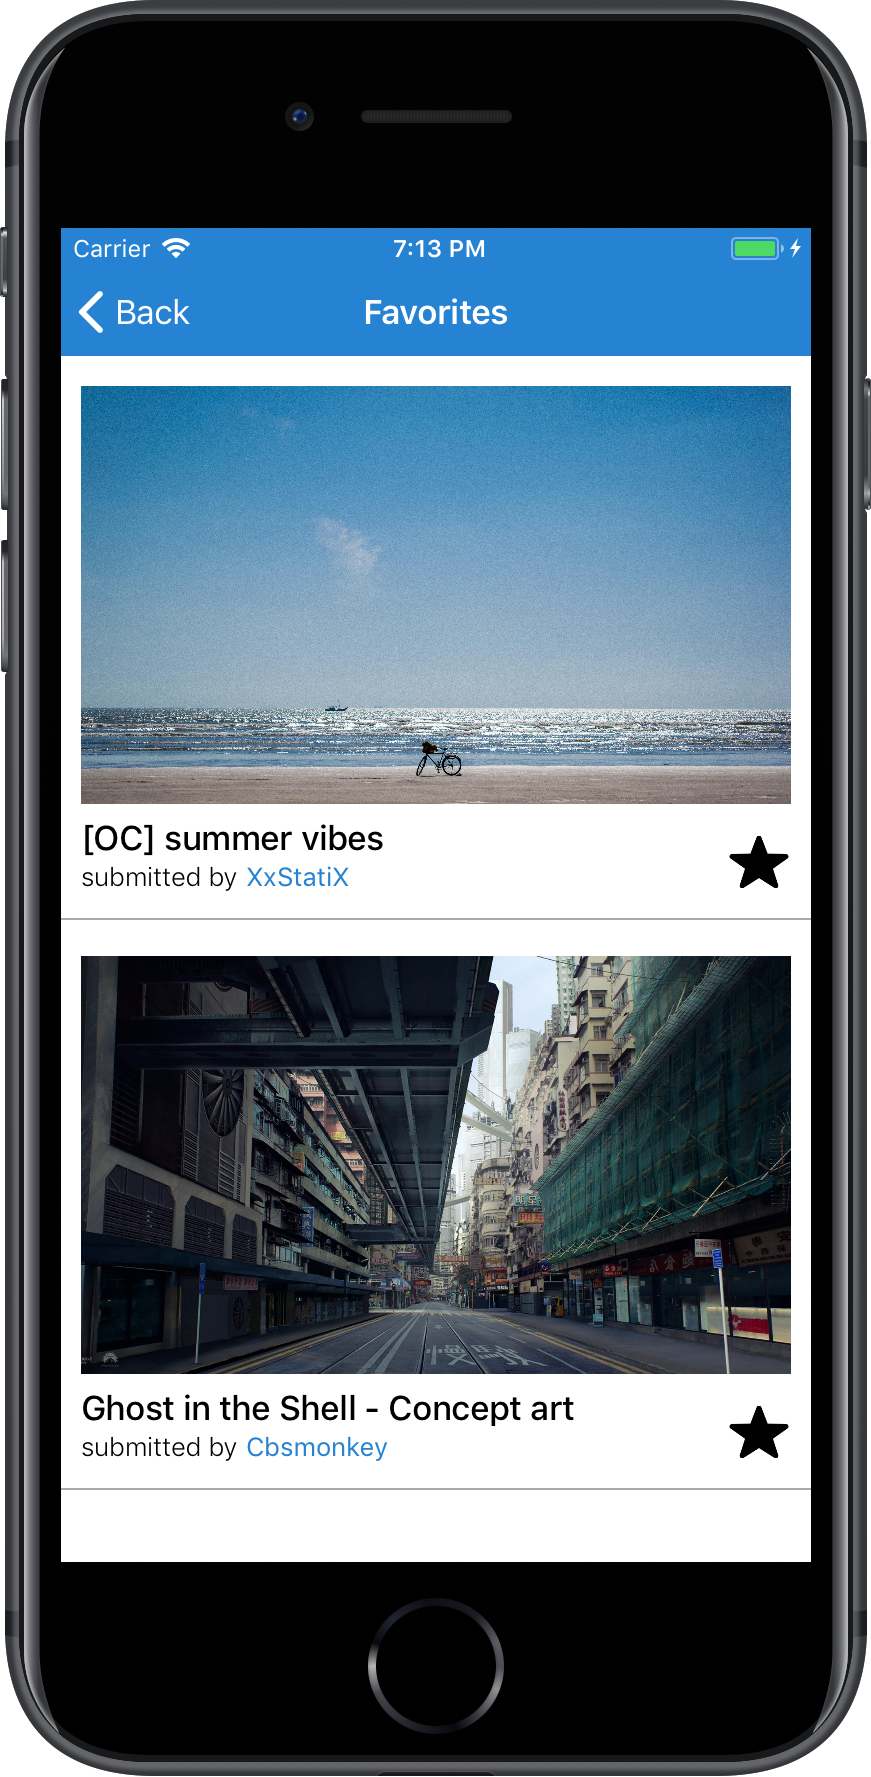
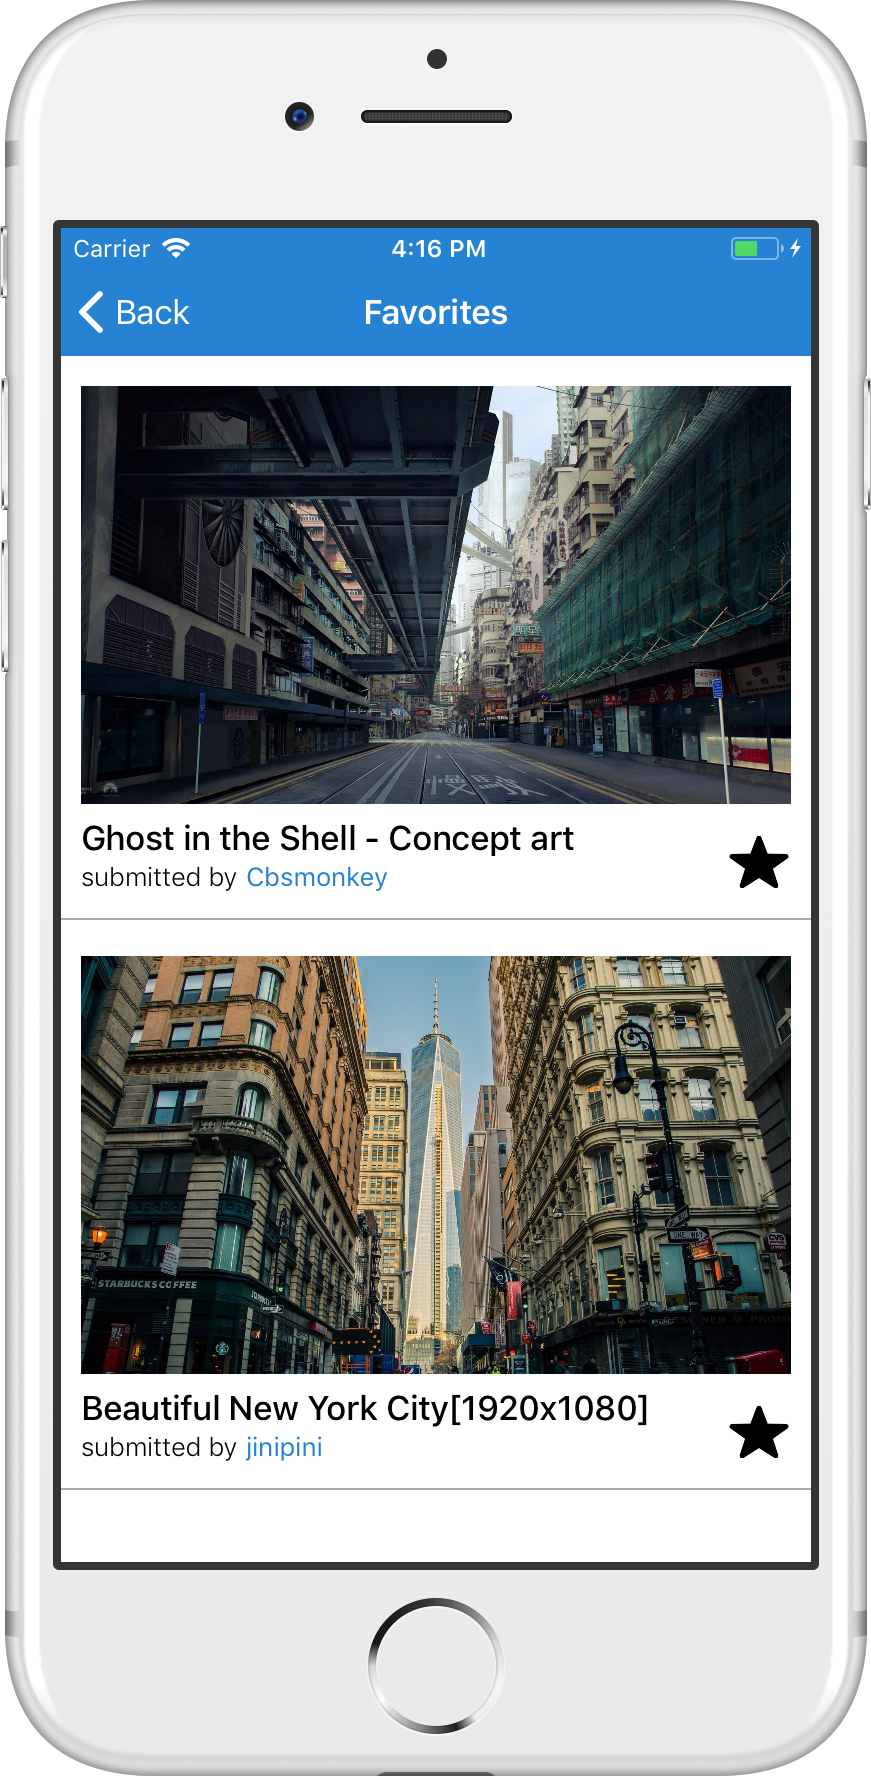
Add white screenshots

diff --git a/README.MD b/README.MD
@@ -1,3 +1,3 @@
 # Reddit Walls
 
-![](readmeimages/screenshots.png)
+![](readmeimages/whitescreenshots.png)
